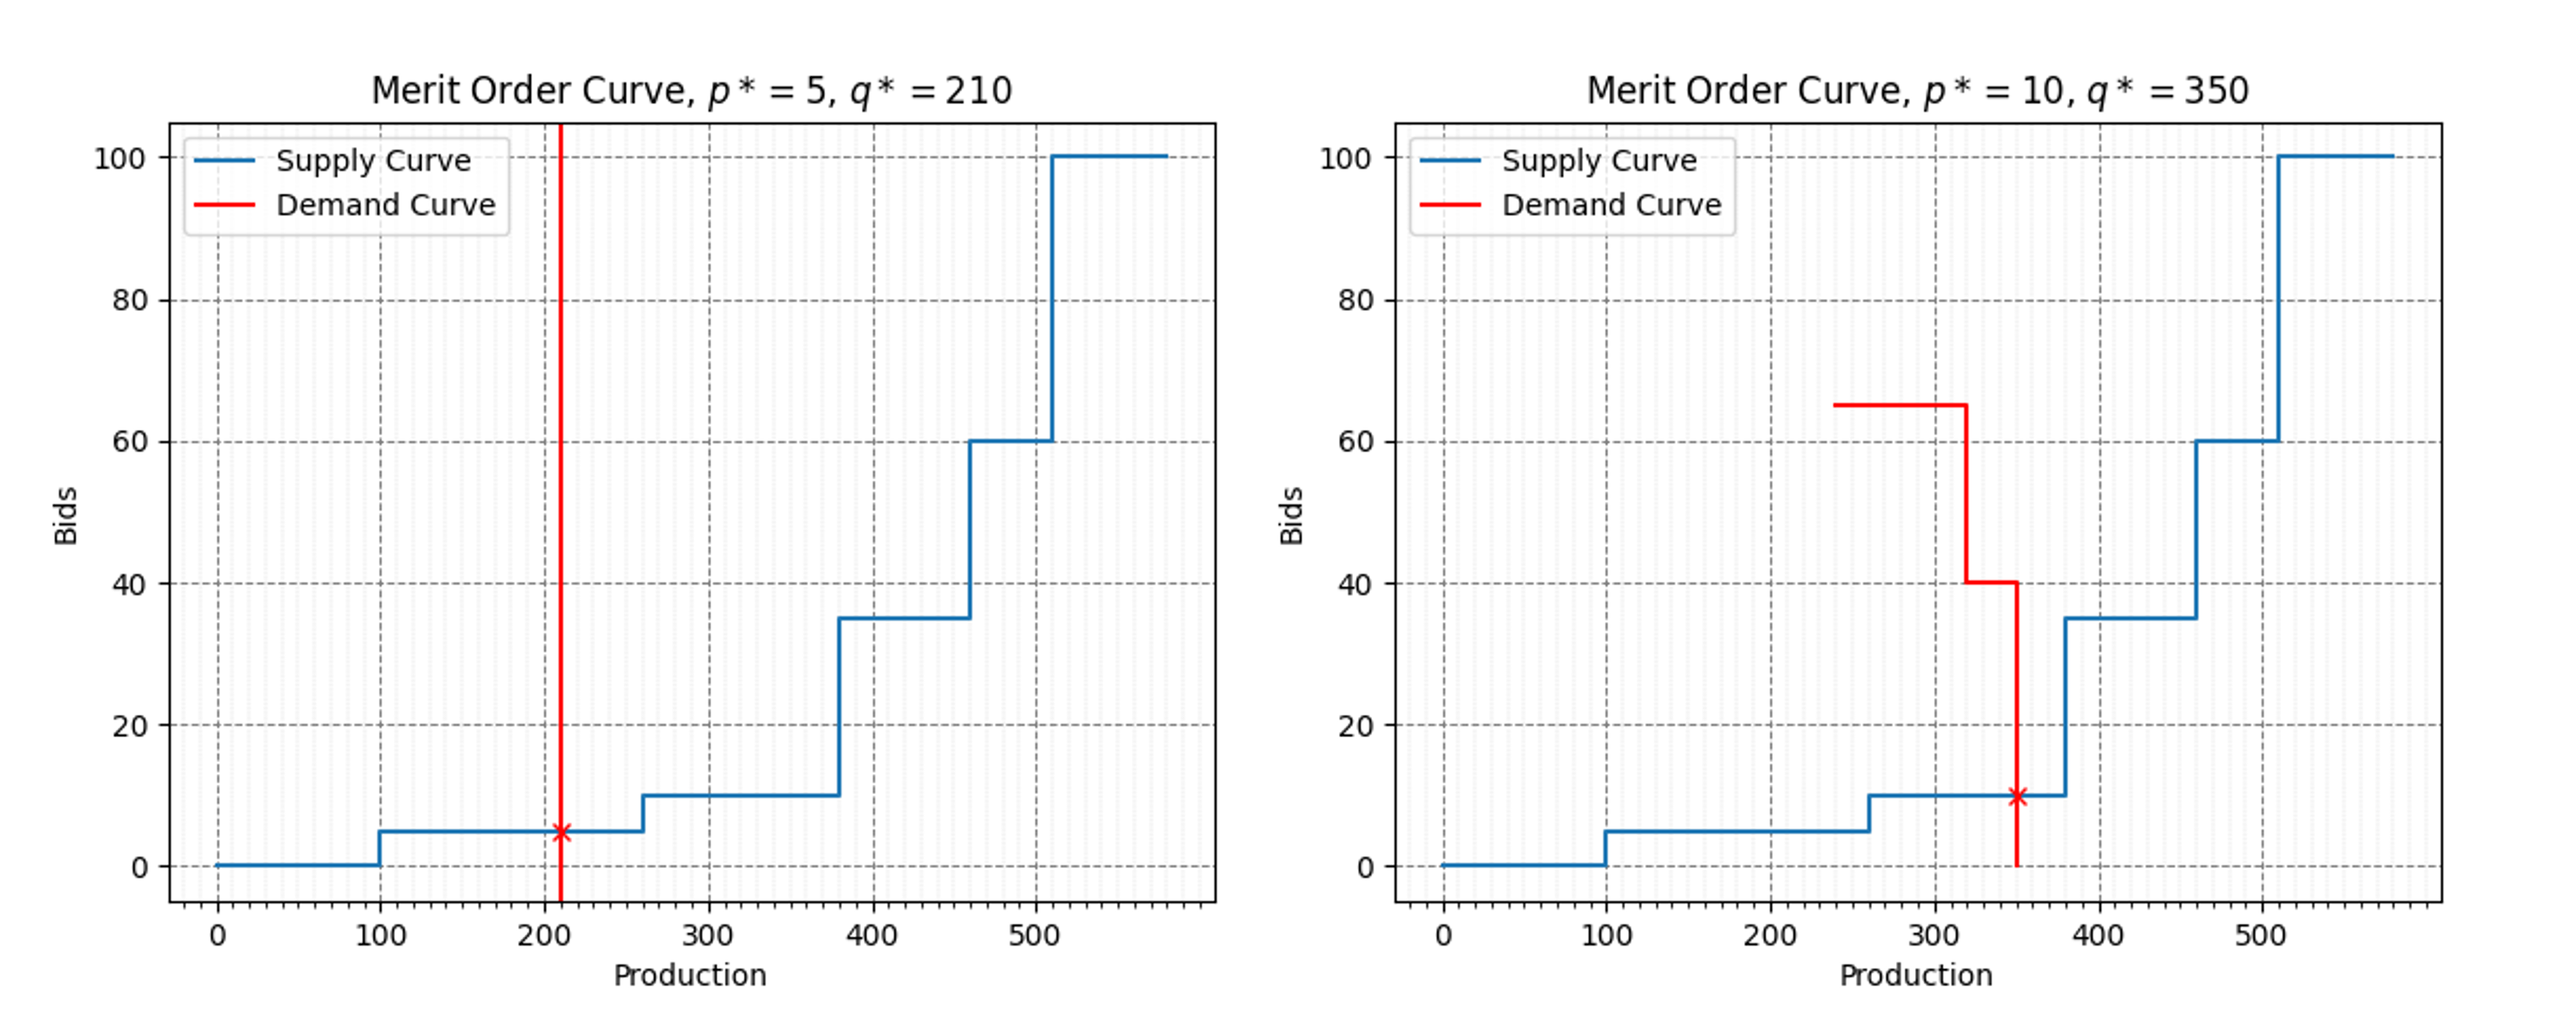
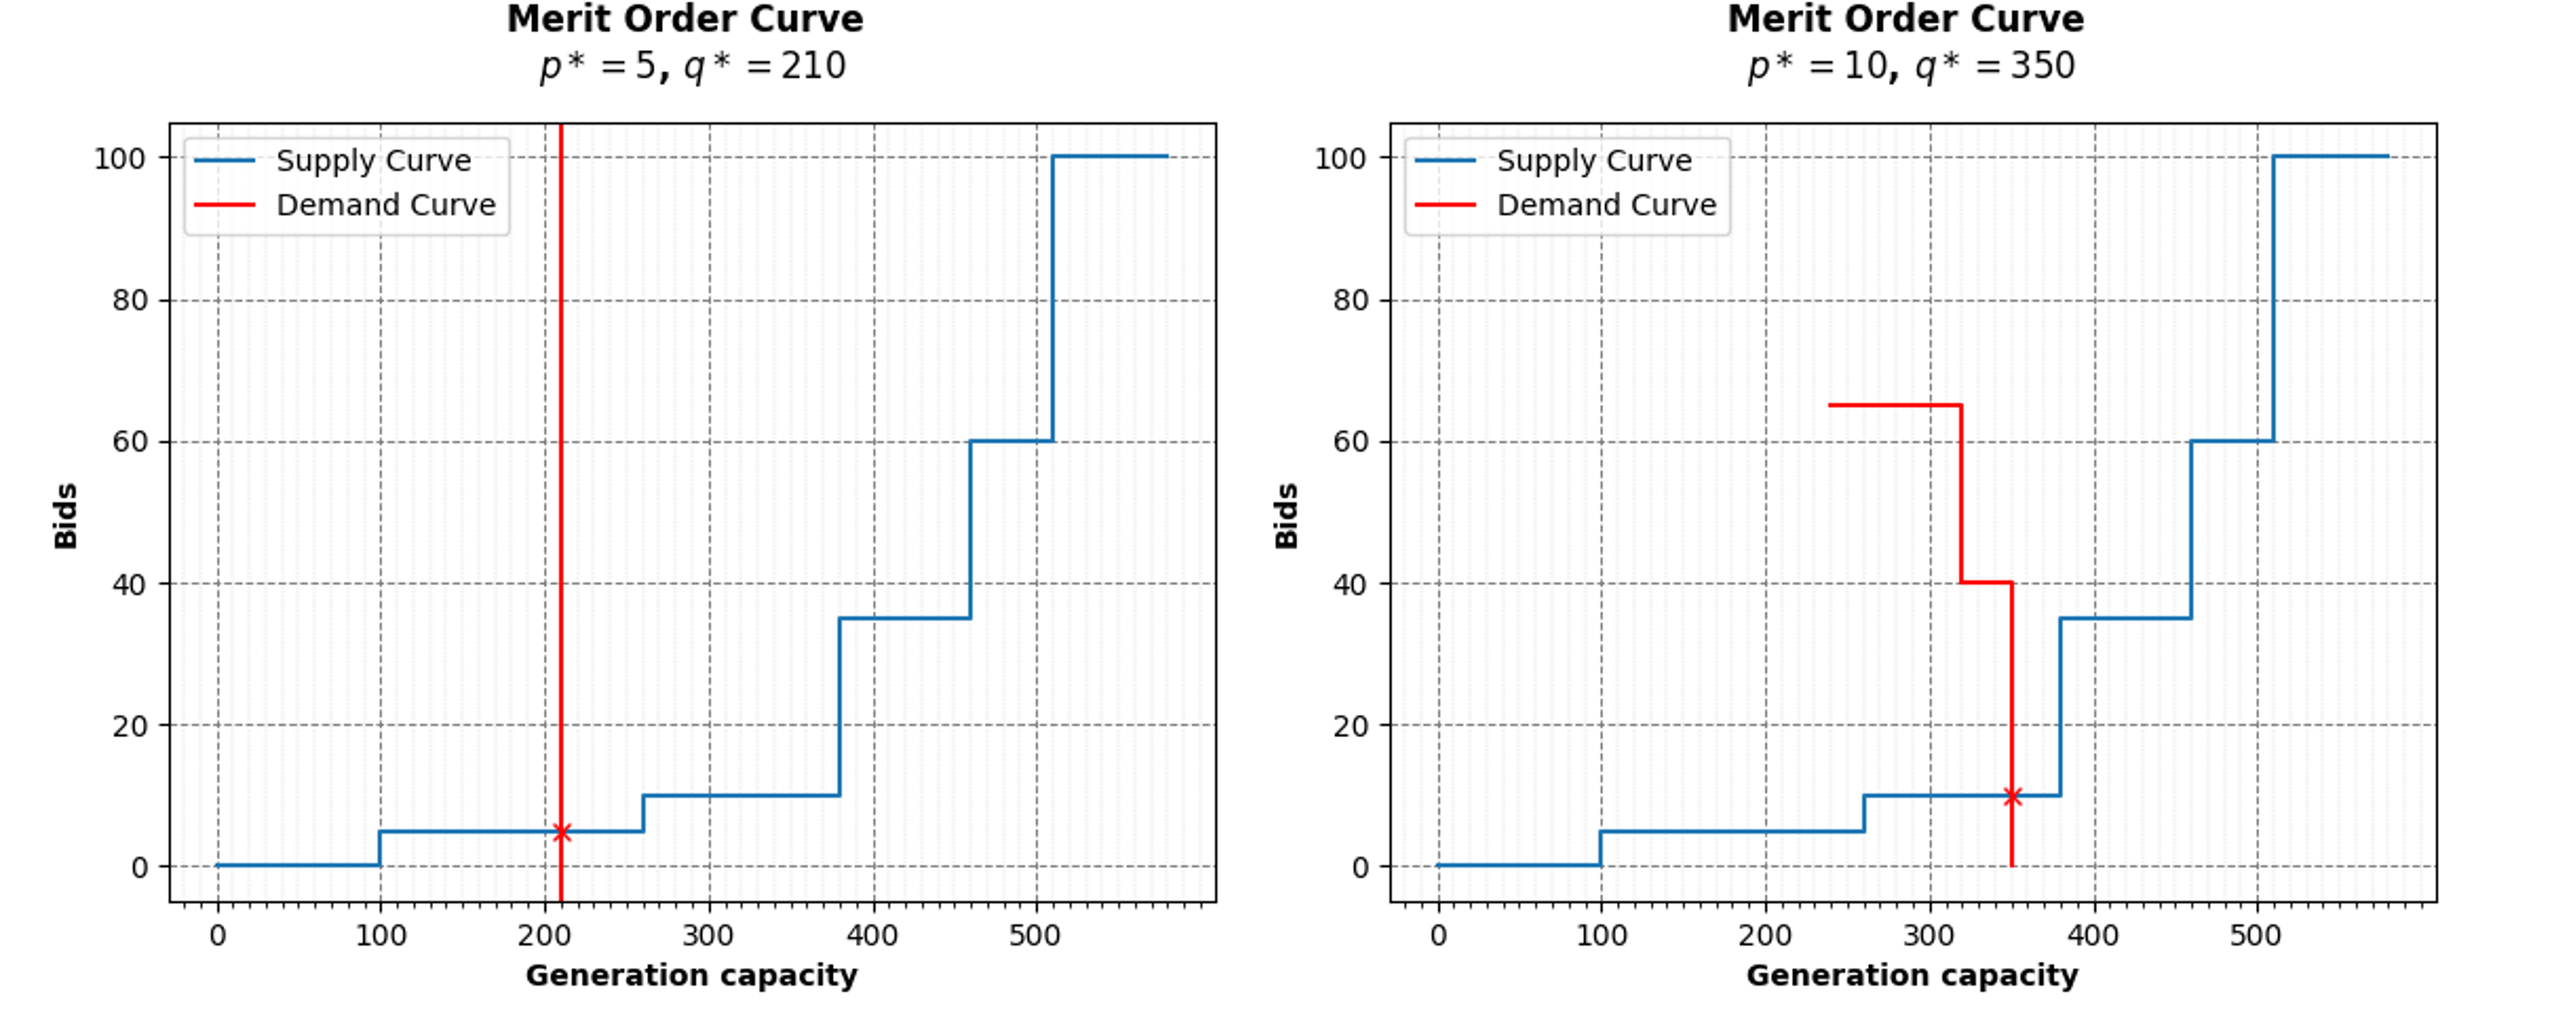
Handling warning and likely errors + Update README.md

diff --git a/meritOrderCurve.py b/meritOrderCurve.py
@@ -5,7 +5,6 @@ from typing import Optional
 
 
 class MeritOrderCurve:
-
     def __init__(
         self,
         productions: np.array,
@@ -20,14 +19,48 @@ class MeritOrderCurve:
         self.demands_marginal_costs = demands_marginal_costs
         self.boolean_cst_demand = boolean_cst_demand
 
-        self.minimum_bids = min(0,np.min(self.prod_marginal_costs))
+        self.minimum_bids = min(0, np.min(self.prod_marginal_costs))
 
         try:
-            if self.demands_marginal_costs == None and self.boolean_cst_demand == False:
-                self.boolean_cst_demand = True
-                print("[Warning] Les coûts marginaux pour la demande n'ont pas été spécifiés, et il n'a pas été indiqué que la demande est constante.")
-        except:
-            None
+            if len(self.productions) != len(self.prod_marginal_costs):
+                raise ValueError(
+                    "Productions and prod_marginal_costs must have the same length."
+                )
+
+        except ValueError as e:
+            print(f"[Error] {e}")
+            raise e
+        except Exception as e:
+            print(f"[Error] An unexpected error occurred: {e}")
+            raise e
+
+        if self.demands_marginal_costs is not None:
+            try:
+                if len(self.demands) != len(self.demands_marginal_costs):
+                    print(
+                        "[Warning] Demands and demands_marginal_costs must have the same length, unless there is a constant demand with a single bid."
+                    )
+                    self.boolean_cst_demand = True
+
+                if (
+                    self.boolean_cst_demand
+                    and len(set(self.demands_marginal_costs)) > 1
+                ):
+                    print(
+                        "[Warning] Multiple demand marginal costs found for constant demand. Ignoring marginal costs for demand."
+                    )
+                    self.demands_marginal_costs = None
+                    self.boolean_cst_demand = True
+
+                if self.boolean_cst_demand and len(set(self.demands)) > 1:
+                    print(
+                        "[Warning] Multiple demands found for constant demand marginal costs. Ignoring demand marginal costs."
+                    )
+                    self.demands_marginal_costs = None
+                    self.boolean_cst_demand = True
+
+            except Exception as e:
+                None
 
     def prepare_curves_production(self):
 
@@ -36,9 +69,6 @@ class MeritOrderCurve:
         sorted_costs = self.prod_marginal_costs[sorted_indices]
 
         sorted_productions = np.cumsum(sorted_productions)
-        print(
-            f"Production ... \n Costs:      {sorted_costs} \n Production: {sorted_productions} \n "
-        )
 
         sorted_productions = np.insert(sorted_productions, 0, 0)
 
@@ -53,15 +83,13 @@ class MeritOrderCurve:
 
         sorted_productions = np.cumsum(sorted_productions)
 
-        print(
-            f"Demand ... \n Costs:  {sorted_costs} \n Demand: {sorted_productions} \n "
+        sorted_productions = np.concatenate(
+            (sorted_productions, np.array([sorted_productions[-1]]))
         )
-
-        sorted_productions = np.concatenate((sorted_productions,np.array([sorted_productions[-1]])))
-        sorted_costs = np.concatenate((sorted_costs,np.array([self.minimum_bids])))
+        sorted_costs = np.concatenate((sorted_costs, np.array([self.minimum_bids])))
 
         return sorted_productions, sorted_costs
-    
+
     def find_intersection_point(self):
         sorted_productions, sorted_productions_costs = self.prepare_curves_production()
 
@@ -72,25 +100,34 @@ class MeritOrderCurve:
             sorted_productions_costs = sorted_productions_costs[:min_len]
             sorted_demands_costs = sorted_demands_costs[:min_len]
 
-            idx_intersection = np.argmin(np.abs(sorted_productions_costs - sorted_demands_costs))
+            idx_intersection = np.argmin(
+                np.abs(sorted_productions_costs - sorted_demands_costs)
+            )
 
-            intersection_point = (sorted_demands[idx_intersection], sorted_productions_costs[idx_intersection])
+            intersection_point = (
+                sorted_demands[idx_intersection],
+                sorted_productions_costs[idx_intersection],
+            )
 
             return intersection_point
         else:
             constant_demand_value = self.demands[0]
 
-            # Trouver l'index où la production atteint ou dépasse la demande constante
             idx_intersection = np.argmax(sorted_productions >= constant_demand_value)
 
-            # Coordonnées du point d'intersection
-            intersection_point = (constant_demand_value, sorted_productions_costs[idx_intersection])
+            intersection_point = (
+                constant_demand_value,
+                sorted_productions_costs[idx_intersection],
+            )
 
             return intersection_point
-        
+
     def merit_order_curve(self):
 
         sorted_productions, sorted_productions_costs = self.prepare_curves_production()
+        print(
+            f"Production ... \n Costs:      {sorted_productions_costs[1:]} \n Production: {sorted_productions[1:]} \n "
+        )
 
         plt.figure()
         plt.step(
@@ -103,27 +140,37 @@ class MeritOrderCurve:
         if not self.boolean_cst_demand:
             sorted_demands, sorted_demands_costs = self.prepare_curves_demand()
 
+            print(
+                f"Demand ... \n Costs:  {sorted_demands_costs[:-1]} \n Demand: {sorted_demands[:-1]} \n"
+            )
+
             plt.step(
-                sorted_demands, sorted_demands_costs, label="Demand Curve", where="pre", color="r"
+                sorted_demands,
+                sorted_demands_costs,
+                label="Demand Curve",
+                where="pre",
+                color="r",
             )
         else:
-            plt.axvline(
-                x=self.demands[0], color="r", label="Demand Curve"
-            )
-        
-        optimum_prod,optimum_price = self.find_intersection_point()
+            plt.axvline(x=self.demands[0], color="r", label="Demand Curve")
 
-        plt.plot(optimum_prod,optimum_price,'rx')
-        
-        plt.xlabel("Production")
-        plt.ylabel("Bids")
+        optimum_prod, optimum_price = self.find_intersection_point()
+
+        plt.plot(optimum_prod, optimum_price, "rx")
+
+        plt.xlabel("Generation capacity", fontweight="bold")
+        plt.ylabel("Bids", fontweight="bold")
 
         plt.xticks(np.arange(0, max(sorted_productions), 100))
         minor_locator = MultipleLocator(10)
         plt.gca().xaxis.set_minor_locator(minor_locator)
-        plt.grid(True, which='major', linestyle='--', linewidth=0.7, color='gray')
-        plt.grid(True, which='minor', linestyle='--', linewidth=0.3, color='lightgray')
+        plt.grid(True, which="major", linestyle="--", linewidth=0.7, color="gray")
+        plt.grid(True, which="minor", linestyle="--", linewidth=0.3, color="lightgray")
 
-        plt.title(rf"Merit Order Curve, $p* = {optimum_price}$, $q* = {optimum_prod}$")
+        plt.title(
+            "Merit Order Curve \n" + rf"$p* = {optimum_price}$, $q* = {optimum_prod}$",
+            pad=15,
+            fontweight="bold",
+        )
         plt.legend()
         plt.show()

diff --git a/README.md b/README.md
@@ -24,7 +24,7 @@ Import the Python file meritOrderCurve,
 from meritOrderCurve import MeritOrderCurve
 import numpy as np
 ```
-Then, create `np.array` representing **productions**, **production bids**, **demands**, and **demand bids**. Note that everything should be in the same unit.
+Then, create `np.array` representing **productions** (often in $MW$), **production bids** (often in $€/MWh$), **demands**, and **demand bids**. Note that everything should be in the same unit.
 
 - Example of use in a typical case, 
 ```python
